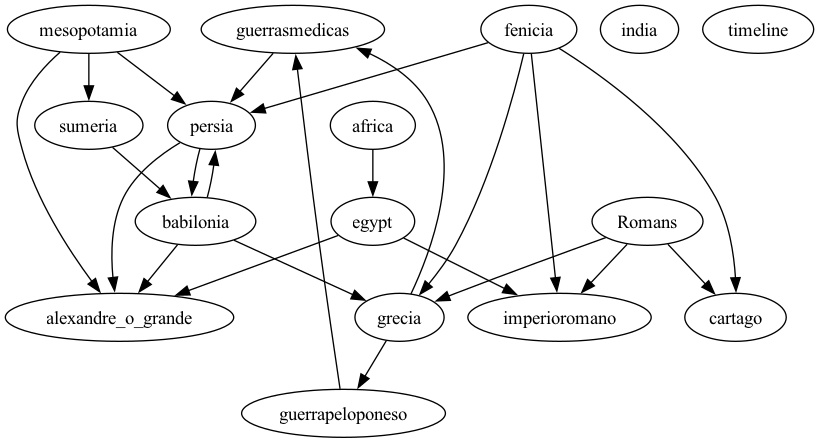
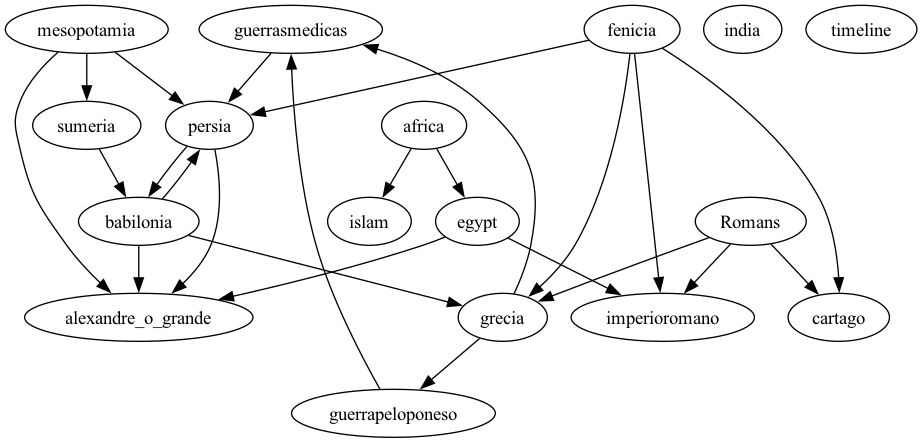
feat: islam religion ::by sergio giraldo @ 20241127T1821CET, gpg signed

diff --git a/docs/index.html b/docs/index.html
@@ -72,6 +72,8 @@
 <li><a href='india'>india</a></li>
 
 <li><a href='africa'>africa</a></li>
+
+<li><a href='islam'>islam</a></li>
 <!--NEXT-->
 			</ul>
 		</div>

diff --git a/docs/islam.md b/docs/islam.md
@@ -1,0 +1,20 @@
+# Islam
+
+The history of Islam concerns the political, social, economic, military, and cultural developments of the Islamic civilization. Most historians believe that Islam originated with Muhammad's mission in Mecca and Medina at the start of the 7th century CE, although Muslims regard this time as a return to the original faith passed down by the Abrahamic prophets, such as Adam, Noah, Abraham, Moses, David, Solomon, and Jesus, with the submission (Islām) to the will of God.
+
+According to the traditional account, the Islamic prophet Muhammad began receiving what Muslims consider to be divine revelations in 610 CE, calling for submission to the one God, preparation for the imminent Last Judgement, and charity for the poor and needy.[Note 1] As Muhammad's message began to attract followers (the ṣaḥāba) he also met with increasing hostility and persecution from Meccan elites.[Note 2] In 622 CE Muhammad migrated to the city of Yathrib (now known as Medina), where he began to unify the tribes of Arabia under Islam, returning to Mecca to take control in 630 and order the destruction of all pagan idols. By the time Muhammad died c. 11 AH (632 CE), almost all the tribes of the Arabian Peninsula had converted to Islam, but disagreement broke out over who would succeed him as leader of the Muslim community during the Rashidun Caliphate.
+
+The early Muslim conquests were responsible for the spread of Islam. By the 8th century CE, the Umayyad Caliphate extended from Iberian Al-Andalus in the west to the Indus River in the east. Polities such as those ruled by the Umayyad and Abbasid caliphates (in the Middle East and later in Spain and Southern Italy), the Fatimids, Seljuks, Ayyubids, and Mamluks were among the most influential powers in the world. Highly Persianized empires built by the Samanids, Ghaznavids, and Ghurids significantly contributed to technological and administrative developments. The Islamic Golden Age gave rise to many centers of culture and science and produced notable polymaths, astronomers, mathematicians, physicians, and philosophers during the Middle Ages.
+
+By the early 13th century, the Delhi Sultanate conquered the northern Indian subcontinent, while Turkic dynasties like the Sultanate of Rum and Artuqids conquered much of Anatolia from the Byzantine Empire throughout the 11th and 12th centuries. In the 13th and 14th centuries, destructive Mongol invasions, along with the loss of population due to the Black Death, greatly weakened the traditional centers of the Muslim world, stretching from Persia to Egypt, but saw the emergence of the Timurid Renaissance and major economic powers such as the Mali Empire in West Africa and the Bengal Sultanate in South Asia. Following the deportation and enslavement of the Muslim Moors from the Emirate of Sicily and elsewhere in southern Italy, the Islamic Iberia was gradually conquered by Christian forces during the Reconquista. Nonetheless, in the early modern period, the gunpowder empires—the Ottomans, Timurids, Mughals, and Safavids—emerged as world powers.
+
+During the 19th and early 20th centuries, most of the Muslim world fell under the influence or direct control of the European Great Powers. Some of their efforts to win independence and build modern nation-states over the course of the last two centuries continue to reverberate to the present day, as well as fuel conflict-zones in regions such as Palestine, Kashmir, Xinjiang, Chechnya, Central Africa, Bosnia, and Myanmar. The oil boom stabilized the Arab States of the Gulf Cooperation Council (comprising Bahrain, Kuwait, Oman, Qatar, Saudi Arabia, and the United Arab Emirates), making them the world's largest oil producers and exporters, which focus on capitalism, free trade, and tourism
+
+## Origins of Islam
+
+According to the traditional account, the Islamic prophet Muhammad was born in Mecca, an important caravan trading center, around the year 570 CE. His family belonged to the Arab clan of Quraysh, which was the chief tribe of Mecca and a dominant force in western Arabia.
+
+Most likely Muhammad was "intimately aware of Jewish belief and practices," and acquainted with the Ḥanīf. Like the Ḥanīf, Muhammad practiced Taḥannuth, spending time in seclusion at mount Hira and "turning away from paganism." When he was about 40 years old, he began receiving at mount Hira' what Muslims regard as divine revelations delivered through the angel Gabriel, which would later form the Quran. These inspirations urged him to proclaim a strict monotheistic faith, as the final expression of Biblical prophetism earlier codified in the sacred texts of Judaism and Christianity; to warn his compatriots of the impending Judgement Day; and to castigate social injustices of his city.
+
+In Yathrib, where he was accepted as an arbitrator among the different communities of the city under the terms of the Constitution of Medina, Muhammad began to lay the foundations of the new Islamic society, with the help of new Quranic verses which provided guidance on matters of law and religious observance. The surahs of this period emphasized his place among the long line of Biblical prophets, but also differentiated the message of the Quran from the sacred texts of Christianity and Judaism. Armed conflict with the Arab Meccans and Jewish tribes of the Yathrib area soon broke out. After a series of military confrontations and political manoeuvres, Muhammad was able to secure control of Mecca and allegiance of the Quraysh in 629 CE. In the time remaining until his death in 632 CE, tribal chiefs across the Arabian peninsula entered into various agreements with him, some under terms of alliance, others acknowledging his claims of prophethood and agreeing to follow Islamic practices, including paying the alms levy to his government, which consisted of a number of deputies, an army of believers, and a public treasury
+

diff --git a/docs/africa.md b/docs/africa.md
@@ -4,7 +4,7 @@ Archaic humans emerged out of Africa between 0.5 and 1.8 million years ago. This
 
 Many kingdoms and empires came and went in all regions of the continent. Most states were created through conquest or the borrowing and assimilation of ideas and institutions, while some developed through internal, largely isolated development. Some African empires and hegemonic kingdoms include Ghana, Mali, Songhai, Ife, Oyo, Bamana/Ségou, Asante, Massina, Sokoto, and the Toucouleur in West Africa; Ancient Egypt, Kush, Carthage, the Fatimids, Almoravids, Almohads, Ayyubids, and Mamluks in North Africa; Aksum, Ethiopia, Adal, Kitara, Kilwa, and Imerina in East Africa; Kanem-Bornu, Kongo, Mwene Muji, Luba, Lunda, and Utetera in Central Africa; and Mapungubwe, Zimbabwe, Mutapa, Rozvi, Maravi, Mthwakazi, and Zulu in Southern Africa. Some societies are heterarchical and egalitarian, while others remained organised into chiefdoms. At its peak it is estimated that Africa had up to 10,000 different states and autonomous groups having distinct languages and customs, with most following traditional religions.
 
-From the 7th century CE, Islam spread west amid the Arab conquest of North Africa, and by proselytization to the Horn of Africa. It later spread southwards to the Swahili coast assisted by Muslim dominance of the Indian Ocean trade, and from the Maghreb traversing the Sahara into the western Sahel and Sudan, catalysed by the Fula jihads in the 18th and 19th centuries. Systems of servitude and slavery were historically widespread and commonplace in parts of Africa, as they were in much of the ancient and medieval world. When the trans-Saharan, Red Sea, Indian Ocean and Atlantic slave trades began, many of the pre-existing local slave systems started supplying captives for slave markets outside Africa, creating various diasporas, especially in the Americas.
+From the 7th century CE, [Islam](islam) spread west amid the Arab conquest of North Africa, and by proselytization to the Horn of Africa. It later spread southwards to the Swahili coast assisted by Muslim dominance of the Indian Ocean trade, and from the Maghreb traversing the Sahara into the western Sahel and Sudan, catalysed by the Fula jihads in the 18th and 19th centuries. Systems of servitude and slavery were historically widespread and commonplace in parts of Africa, as they were in much of the ancient and medieval world. When the trans-Saharan, Red Sea, Indian Ocean and Atlantic slave trades began, many of the pre-existing local slave systems started supplying captives for slave markets outside Africa, creating various diasporas, especially in the Americas.
 
 From 1870 to 1914, driven by the great force and hunger of the Second Industrial Revolution, European colonisation of Africa developed rapidly, as the major European powers partitioned the continent in the 1884 Berlin Conference, from one-tenth of the continent being under European imperial control to over nine-tenths in the Scramble for Africa. European colonialism had significant impacts on Africa's societies, and the suppression of communal autonomy disrupted local customary practices and caused the irreversible transformation of Africa's socioeconomic systems. Colonies were maintained for the purpose of economic exploitation and extraction of natural resources. African history was initially written by outsiders (Europeans and Arabs), and in colonial times under the pretence of Western superiority supported by scientific racism. Oral sources were deprecated and dismissed by unfamiliar historians, giving them the impression Africa had no recorded history. Pre-colonial Christian states include Ethiopia, Makuria, and Kongo. Widespread conversion to Christianity occurred under European rule in southern West Africa, Central Africa, and Southern Africa due to efficacious missions, with peoples syncretising Christianity with their local beliefs.
 

diff --git a/docs/timeline.md b/docs/timeline.md
@@ -50,6 +50,8 @@
 
 | 476 - Civilizacao romana - termino
 
-| 
+| 610 - Islam - Prophet Muhammad revelations
+
+| 632 - Islam - Prophet Muhammad dies
 
 
